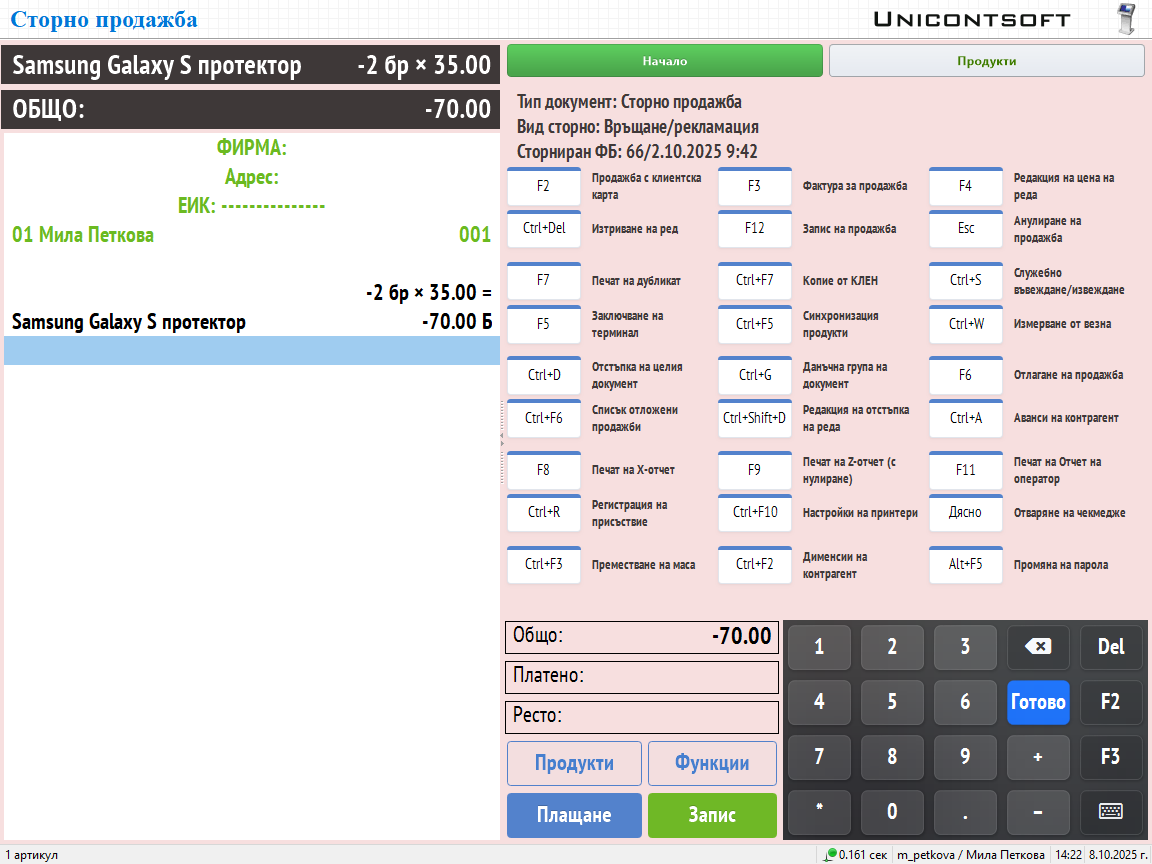
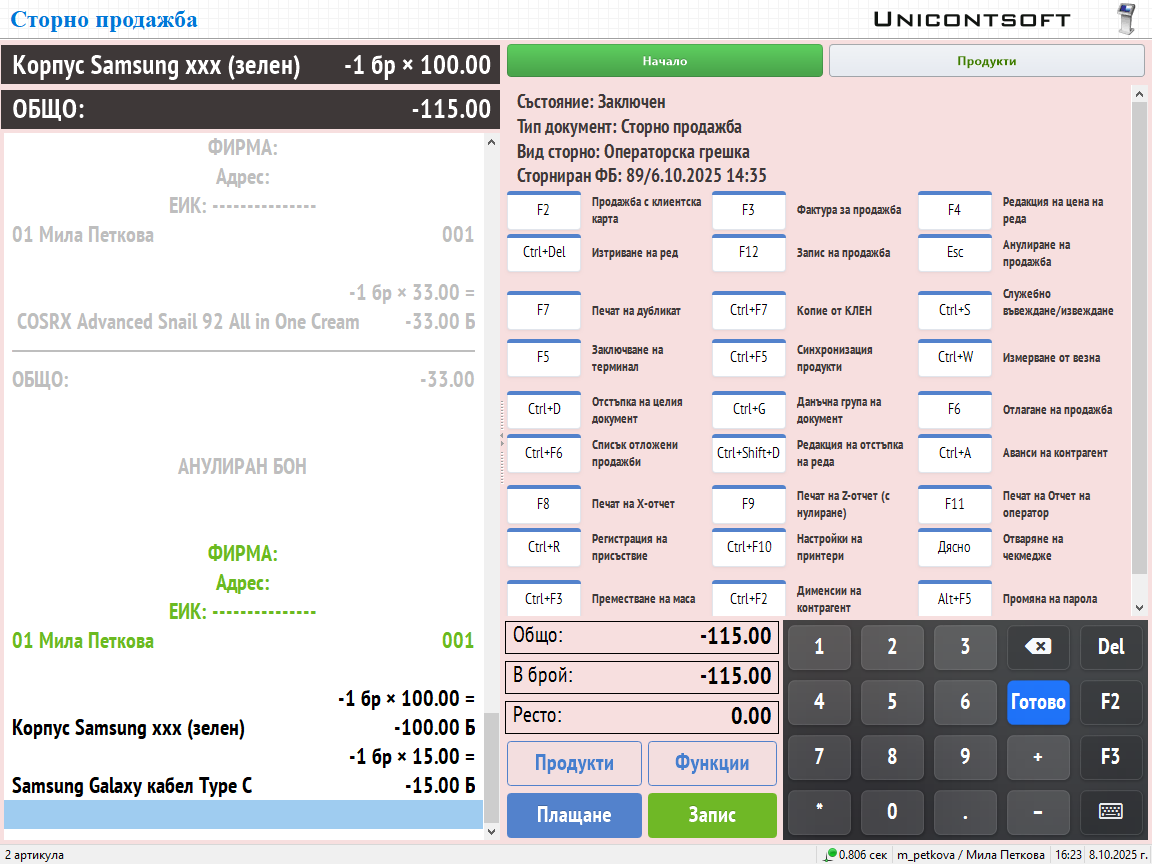
Допълване на тема Сторно бележка

diff --git a/guide/pos/002-pos-docs/006-refund.md b/guide/pos/002-pos-docs/006-refund.md
@@ -18,15 +18,26 @@
 В секция *Избор на действие* трябва да се избере опцията *Тип документ*. На следваща стъпка се маркира един от двата типа документи за връщане:  
 
 - *Сторно операторска грешка* - Използва се при грешно валидирана от оператора продажба (напр. сгрешен начин на плащане).  
+**Dreem POS** генерира сторниращ документ за цялата продажба.  
 При приключване на сторно документа сумите по видове плащания трябва да се попълнят, както са били попълнени в сгрешения ФБ.  
 Сторно фискален бон се отпечатва **в брой** за цялата сума.
 
-- *Сторно връщане/рекламация (с възстановяване на платената от клиента сума)* - Използва се при връщане на продукти от клиент, при отказ от получаване на доставка с наложен платеж и пр.  
+- *Сторно връщане/рекламация (с възстановяване на платената от клиента сума)* - Използва се при връщане на един или няколко продукта от клиент, при отказ от получаване на доставка с наложен платеж и пр.  
+За този тип сторниращ документ **Dreem POS** позволява връщане/рекламация както на един/няколко продукта, така и на цялата продажба.  
 При приключване на документа в съответните полета по видове плащания се попълват сумите, както ще бъдат върнати на клиента.  
 Сторно фискален бон се отпечатва единствено за сумата, която се връща на клиента **в брой**.  
 
-
 ![](906-refund2.png){ class=align-center }
+
+Изборът на *Тип документ* се потвърждава с бутон [**Ok**].  
+
+Системата отваря списък с продажби. От поле *Търсене* с номер на фискалния бон може да бъде избрана продажбата за сторниране.  
+
+![](906-refund3.png){ class=align-center w=15cm }
+
+Основният екран се оцветява в розово при успешно променен тип на документа със **Сторно продажба**.  Визуализира се информация за вид сторно и за фискален бон, към който се отнася.  
+
+![](906-refund4.png){ class=align-center w=15cm }
 
 Сторниращият документ се приключва от бутон [**Плащане**]. В полета по видове плащания се попълват съответните суми.  
 
@@ -42,14 +53,14 @@
 
 Желаният документ се маркира и изборът се потвърждава с бутон [**Избор**] или с двоен клик на мишката.  
 
-![](906-refund3.png){ class=align-center w=15cm }
+![](906-refund5.png){ class=align-center w=15cm }
 
 За добавяне на дняколко върнати продукта се използва клавиш [**+**].  
 Могат да се избират само стоки от редовете на избраната продажба.  
 
 Основният екран се оцветява в розово при успешно променен тип на документа със **Сторно продажба**.  Визуализира се информация за вид сторно и за фискален бон, към който се отнася.  
 
-![](906-refund4.png){ class=align-center w=15cm }
+![](906-refund6.png){ class=align-center w=15cm }
 
 Сторниращият документ се приключва от бутон [**Плащане**].  
 В съответните полета по видове плащания се попълват сумите, както ще бъдат върнати на клиента.  
